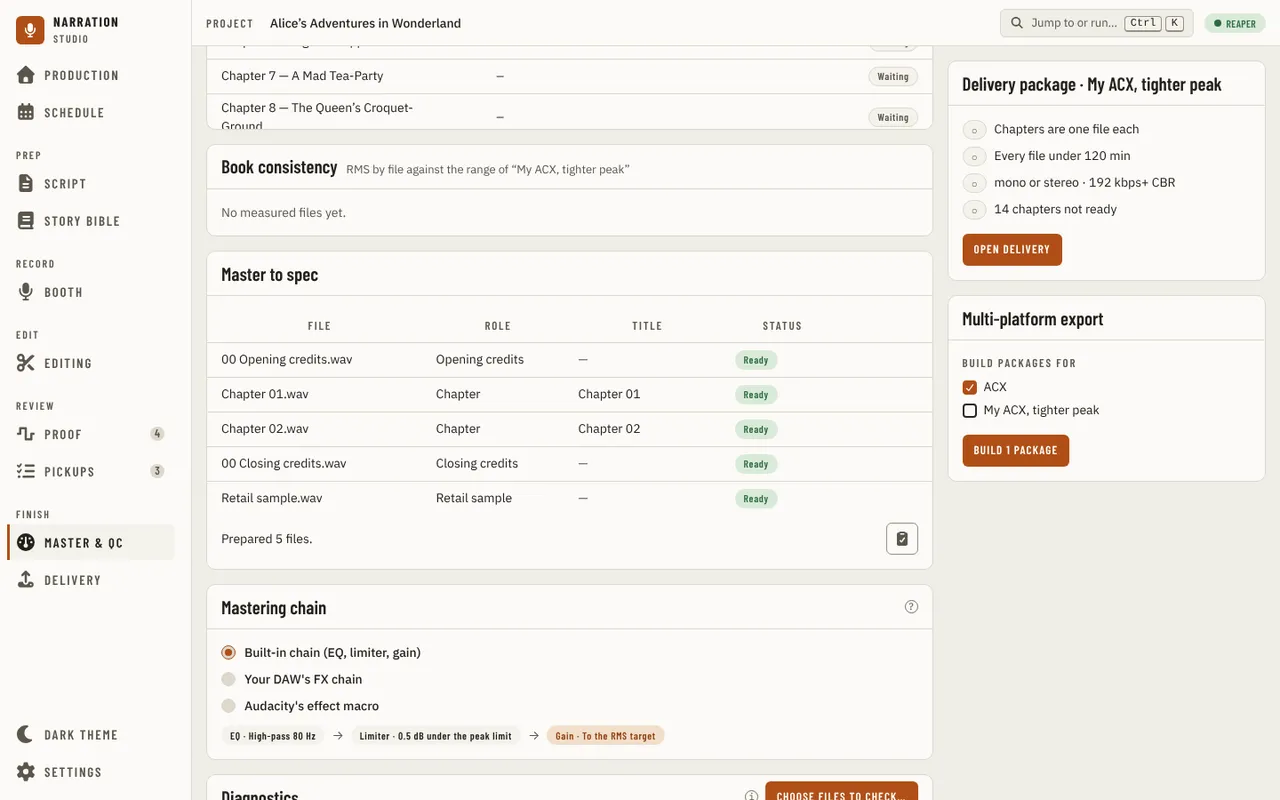
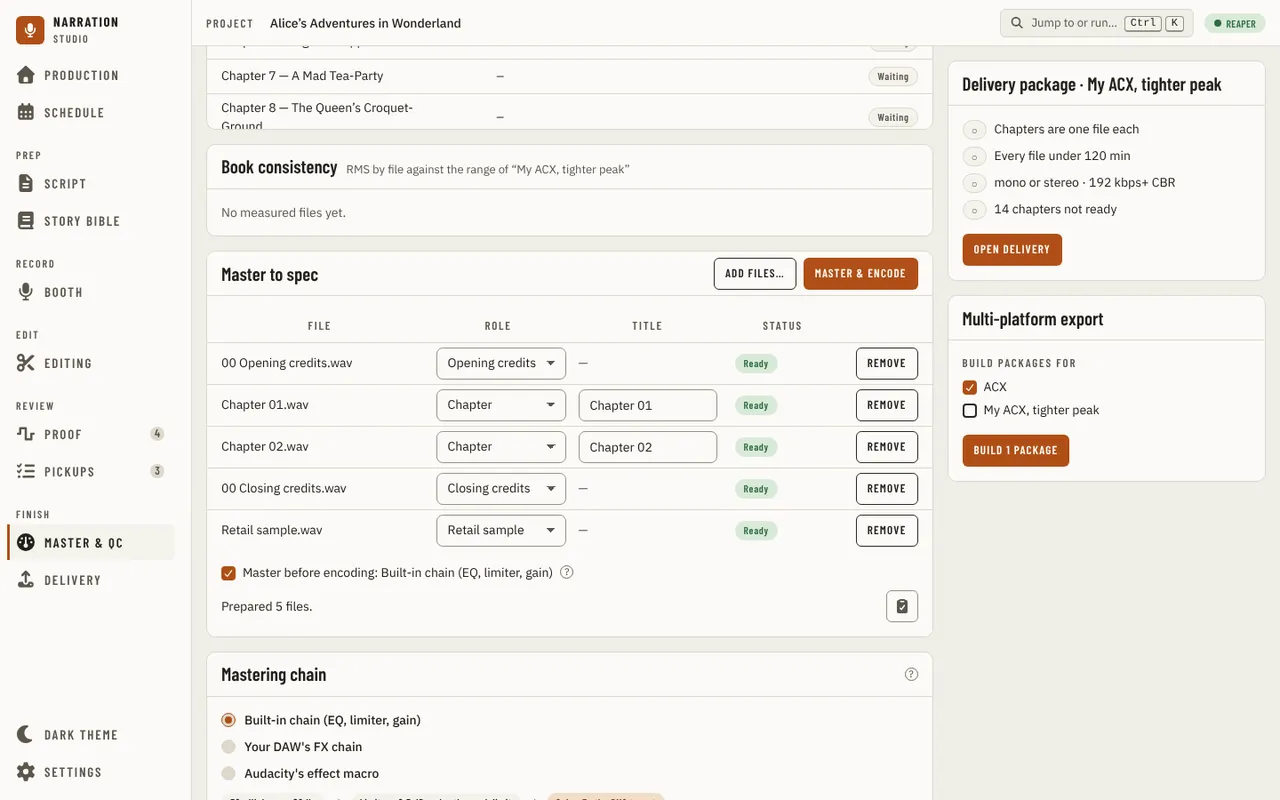
fix(master): give Master to spec's controls back once an export ends (#2935)
The panel hid Add files…, Master before encoding and Master & encode after
any export, cancelled or finished, until the page reloaded. They now lock
only while a job runs; once it ends the picked files are editable again,
each row keeping its status from that run. After a reload that picked
nothing, the last run's files show read-only beside Add files….

Adds the to-spec-cancelled visual state and its guide image and step.

Claude-Session: https://claude.ai/code/session_01EBTykgAY8Rr8x1FcnRh3Fp

diff --git a/src/studio/ui/src/components/master/MasterToSpecPanel.test.tsx b/src/studio/ui/src/components/master/MasterToSpecPanel.test.tsx
@@ -1,10 +1,13 @@
 // @vitest-environment jsdom
-import { cleanup, fireEvent, render, screen } from '@testing-library/react';
+import { cleanup, fireEvent, render, screen, waitFor } from '@testing-library/react';
+import userEvent from '@testing-library/user-event';
 import { afterEach, describe, expect, it, vi } from 'vitest';
+import { ApiProvider } from '../../api/ApiContext';
+import { createMockApi } from '../../api/mockApi';
 import type { ExportItem } from '../../types';
 import { toastTexts } from '../../fixtures/toasts';
 import { MasterToSpecPanel } from './MasterToSpecPanel';
-import type { ExportJobs } from './useExportJobs';
+import { type ExportJobs, useExportJobs } from './useExportJobs';
 
 afterEach(cleanup);
 
@@ -90,5 +93,90 @@ describe('MasterToSpecPanel: the chain it masters with', () => {
     render(<MasterToSpecPanel jobs={jobs({ items: [item], master: true } as never)} chain={{ name, label } as never} />);
     expect(screen.getByRole('checkbox', { name: wording })).toBeTruthy();
     cleanup();
+  });
+});
+
+// #2935: a job that ended (cancelled, finished or failed) gave back none of the panel's controls until the page reloaded.
+describe('MasterToSpecPanel: after a job ends, the controls come back (#2935)', () => {
+  function Harness() {
+    const exportJobs = useExportJobs();
+    return (
+      <>
+        <button type="button" onClick={() => void exportJobs.pick()}>
+          Pick
+        </button>
+        <MasterToSpecPanel jobs={exportJobs} />
+      </>
+    );
+  }
+
+  async function mount(renderExport?: 'hold') {
+    const api = createMockApi({}, renderExport ? { renderExport } : {});
+    const exportStart = vi.spyOn(api, 'exportStart');
+    render(
+      <ApiProvider api={api}>
+        <Harness />
+      </ApiProvider>,
+    );
+    await userEvent.click(screen.getByRole('button', { name: 'Pick' }));
+    await screen.findByRole('button', { name: 'Master & encode' });
+    return { exportStart };
+  }
+
+  const controls = () => ({
+    masterAndEncode: !!screen.queryByRole('button', { name: 'Master & encode' }),
+    addFiles: !!screen.queryByRole('button', { name: 'Add files…' }),
+    master: !!screen.queryByRole('checkbox', { name: /^Master before encoding/ }),
+  });
+
+  it('hides them while the job runs, and gives them back when it is cancelled', async () => {
+    await mount('hold');
+    await userEvent.click(screen.getByRole('button', { name: 'Master & encode' }));
+    await screen.findByRole('progressbar', { name: 'Preparing files' });
+    expect(controls()).toEqual({ masterAndEncode: false, addFiles: false, master: false });
+
+    await userEvent.click(screen.getByRole('button', { name: 'Cancel' }));
+    await screen.findByText(/^Export cancelled\./);
+    expect(controls()).toEqual({ masterAndEncode: true, addFiles: true, master: true });
+    // The files are editable again, each still saying how the last run left it.
+    expect(screen.getAllByRole('button', { name: 'Remove' })).toHaveLength(5);
+    expect(screen.getAllByText('Cancelled')).toHaveLength(5);
+  });
+
+  it('gives them back when the job finishes, and Master & encode runs again', async () => {
+    const { exportStart } = await mount();
+    await userEvent.click(screen.getByRole('button', { name: 'Master & encode' }));
+    await screen.findByText(/^Prepared 5 files\./, undefined, { timeout: 10_000 });
+    expect(controls()).toEqual({ masterAndEncode: true, addFiles: true, master: true });
+    await userEvent.click(screen.getByRole('button', { name: 'Master & encode' }));
+    await waitFor(() => expect(exportStart).toHaveBeenCalledTimes(2));
+  }, 15_000);
+});
+
+describe('MasterToSpecPanel: which controls each job phase draws (#2935)', () => {
+  const job = (phase: string, status: string) =>
+    ({ id: 'j', phase, message: `The job is ${phase}.`, percent: 50, files: [{ path: item.path, kind: 'chapter', title: 'Chapter 01', status }] }) as never;
+
+  it.each([
+    ['running', 'mastering', false],
+    ['success', 'done', true],
+    ['cancelled', 'cancelled', true],
+    ['error', 'failed', true],
+  ])('a %s job with files picked draws the controls: %s', (phase, status, shown) => {
+    render(<MasterToSpecPanel jobs={jobs({ items: [item], master: true, exportJob: job(phase, status), exportRunning: phase === 'running' } as never)} />);
+    expect(!!screen.queryByRole('button', { name: 'Master & encode' })).toBe(shown);
+    expect(!!screen.queryByRole('button', { name: 'Add files…' })).toBe(shown);
+    expect(!!screen.queryByRole('checkbox', { name: /^Master before encoding/ })).toBe(shown);
+    expect(!!screen.queryByRole('combobox', { name: 'Role for Chapter 01.wav' })).toBe(shown);
+  });
+
+  it('after a reload with a finished job and nothing picked: the last run read-only, and Add files… to start again', () => {
+    render(<MasterToSpecPanel jobs={jobs({ exportJob: job('success', 'done') })} />);
+    expect(screen.getByRole('cell', { name: 'Chapter 01.wav' })).toBeTruthy();
+    expect(screen.getByText('Ready')).toBeTruthy();
+    expect(screen.getByRole('button', { name: 'Add files…' })).toBeTruthy();
+    expect(screen.queryByRole('button', { name: 'Master & encode' })).toBeNull();
+    expect(screen.queryByRole('button', { name: 'Remove' })).toBeNull();
+    expect(screen.queryByRole('combobox')).toBeNull();
   });
 });

diff --git a/src/studio/ui/src/components/master/MasterToSpecPanel.tsx b/src/studio/ui/src/components/master/MasterToSpecPanel.tsx
@@ -75,8 +75,11 @@ export function MasterToSpecPanel({
   const chainLabel = chain?.label;
   // The plan the open approval dialog shows: the host's answer when it opened, so a later read cannot change what the narrator approves.
   const [approving, setApproving] = useState<ExportPlan>();
-  const started = !!exportJob?.files.length;
-  const hasFiles = items.length > 0 || started;
+  const hasJobFiles = !!exportJob?.files.length;
+  // The table is the job's own files, read-only, while it runs, and after a reload that has picked nothing (the last run). Once a job
+  // ends, finished, cancelled or failed, the picked files are editable again with Add files…, the checkbox and Master & encode (#2935).
+  const showsJob = hasJobFiles && (exportRunning || items.length === 0);
+  const hasFiles = items.length > 0 || hasJobFiles;
   // A start or pick that failed is a toast; the panel is not opened just to draw it (rule 7, #2632), so it does not appear with nothing in it.
   useErrorToast(problem);
   // A job that ended in error is a toast too, not a red line under the table (rule 7, #2632).
@@ -125,9 +128,9 @@ export function MasterToSpecPanel({
       actions={
         // The panel's action sits in its header beside Add files…, where it stays at every width; it used to follow the checkbox's
         // sentence or drop under it as the window changed (R3MS-12).
-        !started && (
+        !exportRunning && (
           <div className="flex flex-wrap gap-2">
-            <Button variant="secondary" onClick={() => void jobs.pick()} pending={jobs.picking} disabled={exportRunning}>
+            <Button variant="secondary" onClick={() => void jobs.pick()} pending={jobs.picking}>
               Add files…
             </Button>
             {items.length > 0 && (
@@ -139,7 +142,7 @@ export function MasterToSpecPanel({
         )
       }
     >
-      {(items.length > 0 || started) && (
+      {hasFiles && (
         <div
           ref={revealRef}
           tabIndex={0}
@@ -157,14 +160,14 @@ export function MasterToSpecPanel({
               </TableRow>
             </TableHead>
             <TableBody>
-              {(started && exportJob ? exportJob.files : items).map((item) => {
+              {(showsJob && exportJob ? exportJob.files : items).map((item) => {
                 const result = exportJob?.files.find((file) => file.path === item.path);
                 const status = exportRowStatus(result);
                 return (
                   <TableRow key={item.path}>
                     <TableCell className="break-words">{fileName(item.path)}</TableCell>
                     <TableCell>
-                      {started ? (
+                      {showsJob ? (
                         KIND_OPTIONS.find((option) => option.value === item.kind)?.label
                       ) : (
                         <Select
@@ -182,7 +185,7 @@ export function MasterToSpecPanel({
                           <span aria-hidden="true">—</span>
                           <span className="sr-only">No title for this role</span>
                         </span>
-                      ) : started ? (
+                      ) : showsJob ? (
                         item.title
                       ) : (
                         <TextField
@@ -201,7 +204,7 @@ export function MasterToSpecPanel({
                       )}
                     </TableCell>
                     <TableCell align="right">
-                      {!started && (
+                      {!showsJob && (
                         <Button variant="secondary" onClick={() => jobs.removeItem(item.path)}>
                           Remove
                         </Button>
@@ -214,7 +217,7 @@ export function MasterToSpecPanel({
           </Table>
         </div>
       )}
-      {items.length > 0 && !started && (
+      {items.length > 0 && !exportRunning && (
         <div className="mt-3 flex items-center gap-2">
           <Checkbox checked={jobs.master} onChange={jobs.setMaster}>
             {/* The row's own label, as the host words it: lowercasing it made "the your DAW's FX chain" (#2879's review). */}

diff --git a/src/studio/ui/tests/visual/drivers/master.ts b/src/studio/ui/tests/visual/drivers/master.ts
@@ -219,6 +219,16 @@ export const masterDrivers: Record<string, Driver> = {
     await page.getByRole('progressbar', { name: 'Preparing files' }).waitFor();
     await scrollToTop(page, page.getByRole('region', { name: 'Master to spec' }));
   },
+  'to-spec-cancelled': async (page) => {
+    await openMaster(page, '?mockRenderExport=running');
+    await pickFilesToMaster(page);
+    await page.getByRole('button', { name: 'Master & encode' }).click();
+    const panel = page.getByRole('region', { name: 'Master to spec' });
+    await panel.getByRole('button', { name: 'Cancel' }).click();
+    await panel.getByText(/^Export cancelled\./).waitFor();
+    await panel.getByRole('button', { name: 'Master & encode' }).waitFor();
+    await scrollToTop(page, panel);
+  },
   'multi-export-empty': async (page) => {
     await openMaster(page);
     const panel = page.getByRole('region', { name: 'Multi-platform export' });

diff --git a/src/studio/ui/tests/visual/catalog/master.ts b/src/studio/ui/tests/visual/catalog/master.ts
@@ -185,6 +185,13 @@ export const masterStates: StateEntry[] = [
       'Master & QC, mastering and encoding part way through (?mockRenderExport=running) - real progress, Cancel, and each file waiting, mastering or encoding',
     ...KEEPS_DESKTOP_SCROLL,
   },
+  {
+    page: 'master',
+    state: 'to-spec-cancelled',
+    description:
+      'Master & QC, a running Master & encode cancelled (?mockRenderExport=running) - each file Cancelled, its role and title editable again, Add files…, Master before encoding and Master & encode back to run it again (#2935)',
+    ...KEEPS_DESKTOP_SCROLL,
+  },
   // Master & QC, multi-platform export: several profiles' packages from one mastered/encoded source, in one action (no mock
   // equivalent, kept as built, in the column beside the files)
   {

diff --git a/docs/guides/using-the-app/master-and-qc.md b/docs/guides/using-the-app/master-and-qc.md
@@ -147,9 +147,16 @@ and [Delivery](delivery.md) still go by the files you checked: the check icon be
 "Check the prepared files so Delivery counts them") opens the file picker to check the copies, and a chapter counts as
 mastered once its file passes.
 
+While the export runs, the files, **Add files…** and **Master before encoding** are locked. When it ends, finished,
+cancelled or failed, they unlock: each row keeps its **Status** from that run, and you can change the files, the roles,
+the titles or the checkbox and press **Master & encode** again. After you reopen the app, the panel shows the last
+export's files without editing; **Add files…** starts a new one.
+
 ![Master all to spec with five files picked and given a role](../../images/ui/master-to-spec-picked.webp)
 
 ![Master & encode asking approval to master with the DAW's FX chain, naming the regions it renders](../../images/ui/master-to-spec-approve.webp)
+
+![A cancelled export: each file Cancelled, and the files and Master & encode back to run it again](../../images/ui/master-to-spec-cancelled.webp)
 
 ## Building packages for several platforms at once
 
